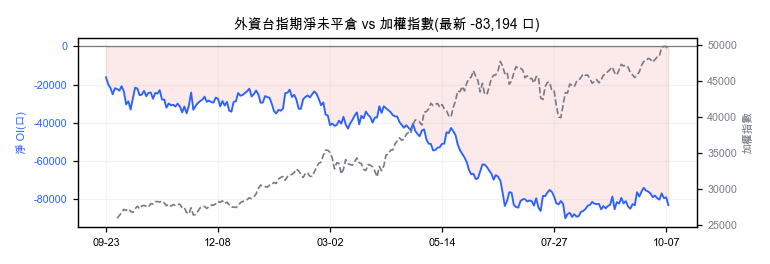
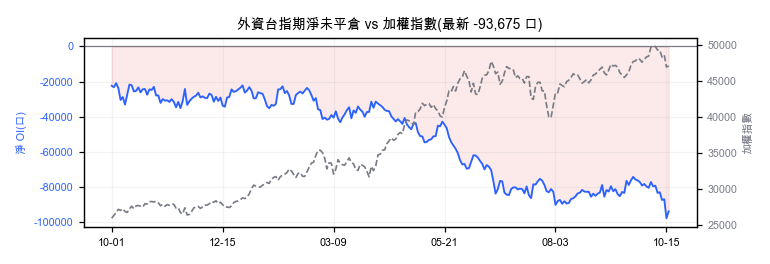
weekly 2026-10-17 情緒週報更新

diff --git a/docs/weekly_2026-10-17.html b/docs/weekly_2026-10-17.html
@@ -1,0 +1,56 @@
+<!DOCTYPE html>
+<html lang="zh-Hant">
+<head>
+  <meta charset="UTF-8">
+  <meta name="viewport" content="width=device-width, initial-scale=1.0">
+  <title>週報 2026-10-17 — 情緒面 + 籌碼</title>
+  <script>try{document.documentElement.dataset.theme=localStorage.getItem('theme')||'dark';}catch(e){document.documentElement.dataset.theme='dark';}</script>
+  <link rel="stylesheet" href="assets/tokens.css?v=b28a42eb">
+  <link rel="stylesheet" href="assets/style_v2.css?v=b28a42eb">
+  <script src="assets/theme.js?v=b28a42eb" defer></script>
+</head>
+<body>
+<header class="page-header">
+  <div class="container">
+    <nav class="page-nav">
+      <a href="index.html">← 回首頁</a>
+      <a href="index_v2.html">📈 儀表板</a>
+      <a href="watchlist_v2.html">📋 Watchlist</a>
+      <a href="tags.html">🔥 主題熱度</a>
+      <span class="page-nav-current">📅 週報</span>
+      <a href="macro_dashboard.html">🌐 宏觀</a>
+    </nav>
+    <h1>📅 每週市場情緒週報</h1>
+    <div class="meta">資料日期 <strong>2026-10-17</strong> ｜ 情緒面 NAAIM + VIX（AAII 已停用）｜ 產出時間 2026-10-17 09:00</div>
+  </div>
+</header>
+<main class="container wk-narrow">
+<div class="wk-errors">⚠ 部分數據源失敗:naaim: NAAIM 頁找不到 USE_Data xlsx 連結(頁面可能改版)</div>
+  <section class="section">
+    <h2>🚨 本週警報</h2>
+    <ul class="wk-alerts"><li class="wk-noalert">本週無極端訊號</li></ul>
+  </section>
+  <section class="section">
+    <h2>😱 情緒面</h2>
+    <div class="wk-cards"><div class="wk-card"><div class="wk-card-label">NAAIM 機構曝險</div><div class="wk-card-val" style="">N/A</div><div class="wk-card-sub">最新 </div></div><div class="wk-card"><div class="wk-card-label">VIX 波動率</div><div class="wk-card-val" style="">19.99</div><div class="wk-card-sub">恐慌指標(替代恐慌貪婪)</div></div></div>
+    
+  </section>
+  <section class="section">
+    <h2>🛒 消費信心(XLY/XLP)</h2>
+    <div class="wk-cards"><div class="wk-card"><div class="wk-card-label">XLY/XLP 比值</div><div class="wk-card-val" style="">1.3084</div><div class="wk-card-sub">偏空</div></div></div>
+    <img class="wk-chart" src="assets/weekly/xly_xlp.png" alt="XLY/XLP 比值">
+  </section>
+  <section class="section">
+    <h2>💰 週融資 + 大盤回顧</h2>
+    <div class="wk-cards"><div class="wk-card"><div class="wk-card-label">市場融資餘額(億元)</div><div class="wk-card-val" style="color:var(--color-down)">8,638.4</div><div class="wk-card-sub">週增減 -1.19%</div></div><div class="wk-card"><div class="wk-card-label">加權指數(週)</div><div class="wk-card-val" style="color:var(--color-down)">46,969.87</div><div class="wk-card-sub">本週 -5.70%</div></div></div>
+    <img class="wk-chart" src="assets/weekly/margin.png" alt="市場融資餘額趨勢(億元)">
+  </section>
+  <section class="section">
+    <h2>🏛 機構訊號區</h2>
+    <h3>💳 信用與流動性</h3><figure class="wk-sig"><img class="wk-chart" src="assets/weekly/sig_hy_oas.png" alt="HY OAS 高收益債利差"><figcaption class="wk-src">來源:FRED BAMLH0A0HYM2(ICE BofA US High Yield OAS)</figcaption></figure><figure class="wk-sig"><img class="wk-chart" src="assets/weekly/sig_t10y2y.png" alt="2s10s 利差"><figcaption class="wk-src">來源:FRED T10Y2Y(10 年期減 2 年期公債利差)</figcaption></figure><h3>🧭 市場內部</h3><figure class="wk-sig"><img class="wk-chart" src="assets/weekly/sig_breadth.png" alt="台股寬度"><figcaption class="wk-src">來源:kline.db 自算(watchlist 台股 106 檔)</figcaption></figure><figure class="wk-sig"><img class="wk-chart" src="assets/weekly/sig_foreign_oi.png" alt="外資台指期淨 OI vs 加權指數"><figcaption class="wk-src">來源:期交所三大法人期貨未平倉(外資)+ TWSE FMTQIK</figcaption></figure><h3>😱 情緒</h3><figure class="wk-sig"><img class="wk-chart" src="assets/weekly/sig_vix_ratio.png" alt="VIX/VIX3M 比值"><figcaption class="wk-src">來源:CBOE VIX / VIX3M(yfinance)</figcaption></figure><h3>🏭 景氣</h3><figure class="wk-sig"><img class="wk-chart" src="assets/weekly/sig_sahm.png" alt="Sahm Rule"><figcaption class="wk-src">來源:FRED SAHMREALTIME(Sahm Rule 即時失業率指標)</figcaption></figure><figure class="wk-sig"><img class="wk-chart" src="assets/weekly/sig_light.png" alt="景氣對策信號"><figcaption class="wk-src">來源:國發會景氣對策信號</figcaption></figure>
+  </section>
+
+  <p class="wk-src">NAAIM 來源:官方 USE_Data since Inception(? 週全量);US 指數/VIX/ETF:yfinance;融資:證交所 OpenAPI。</p>
+</main>
+</body>
+</html>

diff --git a/docs/weekly.html b/docs/weekly.html
@@ -3,7 +3,7 @@
 <head>
   <meta charset="UTF-8">
   <meta name="viewport" content="width=device-width, initial-scale=1.0">
-  <title>週報 2026-10-10 — 情緒面 + 籌碼</title>
+  <title>週報 2026-10-17 — 情緒面 + 籌碼</title>
   <script>try{document.documentElement.dataset.theme=localStorage.getItem('theme')||'dark';}catch(e){document.documentElement.dataset.theme='dark';}</script>
   <link rel="stylesheet" href="assets/tokens.css?v=b28a42eb">
   <link rel="stylesheet" href="assets/style_v2.css?v=b28a42eb">
@@ -21,7 +21,7 @@
       <a href="macro_dashboard.html">🌐 宏觀</a>
     </nav>
     <h1>📅 每週市場情緒週報</h1>
-    <div class="meta">資料日期 <strong>2026-10-10</strong> ｜ 情緒面 NAAIM + VIX（AAII 已停用）｜ 產出時間 2026-10-10 09:00</div>
+    <div class="meta">資料日期 <strong>2026-10-17</strong> ｜ 情緒面 NAAIM + VIX（AAII 已停用）｜ 產出時間 2026-10-17 09:00</div>
   </div>
 </header>
 <main class="container wk-narrow">
@@ -32,17 +32,17 @@
   </section>
   <section class="section">
     <h2>😱 情緒面</h2>
-    <div class="wk-cards"><div class="wk-card"><div class="wk-card-label">NAAIM 機構曝險</div><div class="wk-card-val" style="">N/A</div><div class="wk-card-sub">最新 </div></div><div class="wk-card"><div class="wk-card-label">VIX 波動率</div><div class="wk-card-val" style="">14.84</div><div class="wk-card-sub">恐慌指標(替代恐慌貪婪)</div></div></div>
+    <div class="wk-cards"><div class="wk-card"><div class="wk-card-label">NAAIM 機構曝險</div><div class="wk-card-val" style="">N/A</div><div class="wk-card-sub">最新 </div></div><div class="wk-card"><div class="wk-card-label">VIX 波動率</div><div class="wk-card-val" style="">19.99</div><div class="wk-card-sub">恐慌指標(替代恐慌貪婪)</div></div></div>
     
   </section>
   <section class="section">
     <h2>🛒 消費信心(XLY/XLP)</h2>
-    <div class="wk-cards"><div class="wk-card"><div class="wk-card-label">XLY/XLP 比值</div><div class="wk-card-val" style="">1.3391</div><div class="wk-card-sub">偏空</div></div></div>
+    <div class="wk-cards"><div class="wk-card"><div class="wk-card-label">XLY/XLP 比值</div><div class="wk-card-val" style="">1.3084</div><div class="wk-card-sub">偏空</div></div></div>
     <img class="wk-chart" src="assets/weekly/xly_xlp.png" alt="XLY/XLP 比值">
   </section>
   <section class="section">
     <h2>💰 週融資 + 大盤回顧</h2>
-    <div class="wk-cards"><div class="wk-card"><div class="wk-card-label">市場融資餘額(億元)</div><div class="wk-card-val" style="color:var(--color-up)">8,742.8</div><div class="wk-card-sub">週增減 +3.01%</div></div><div class="wk-card"><div class="wk-card-label">加權指數(週)</div><div class="wk-card-val" style="color:var(--color-up)">49,313.44</div><div class="wk-card-sub">本週 +1.99%</div></div></div>
+    <div class="wk-cards"><div class="wk-card"><div class="wk-card-label">市場融資餘額(億元)</div><div class="wk-card-val" style="color:var(--color-down)">8,638.4</div><div class="wk-card-sub">週增減 -1.19%</div></div><div class="wk-card"><div class="wk-card-label">加權指數(週)</div><div class="wk-card-val" style="color:var(--color-down)">46,969.87</div><div class="wk-card-sub">本週 -5.70%</div></div></div>
     <img class="wk-chart" src="assets/weekly/margin.png" alt="市場融資餘額趨勢(億元)">
   </section>
   <section class="section">
